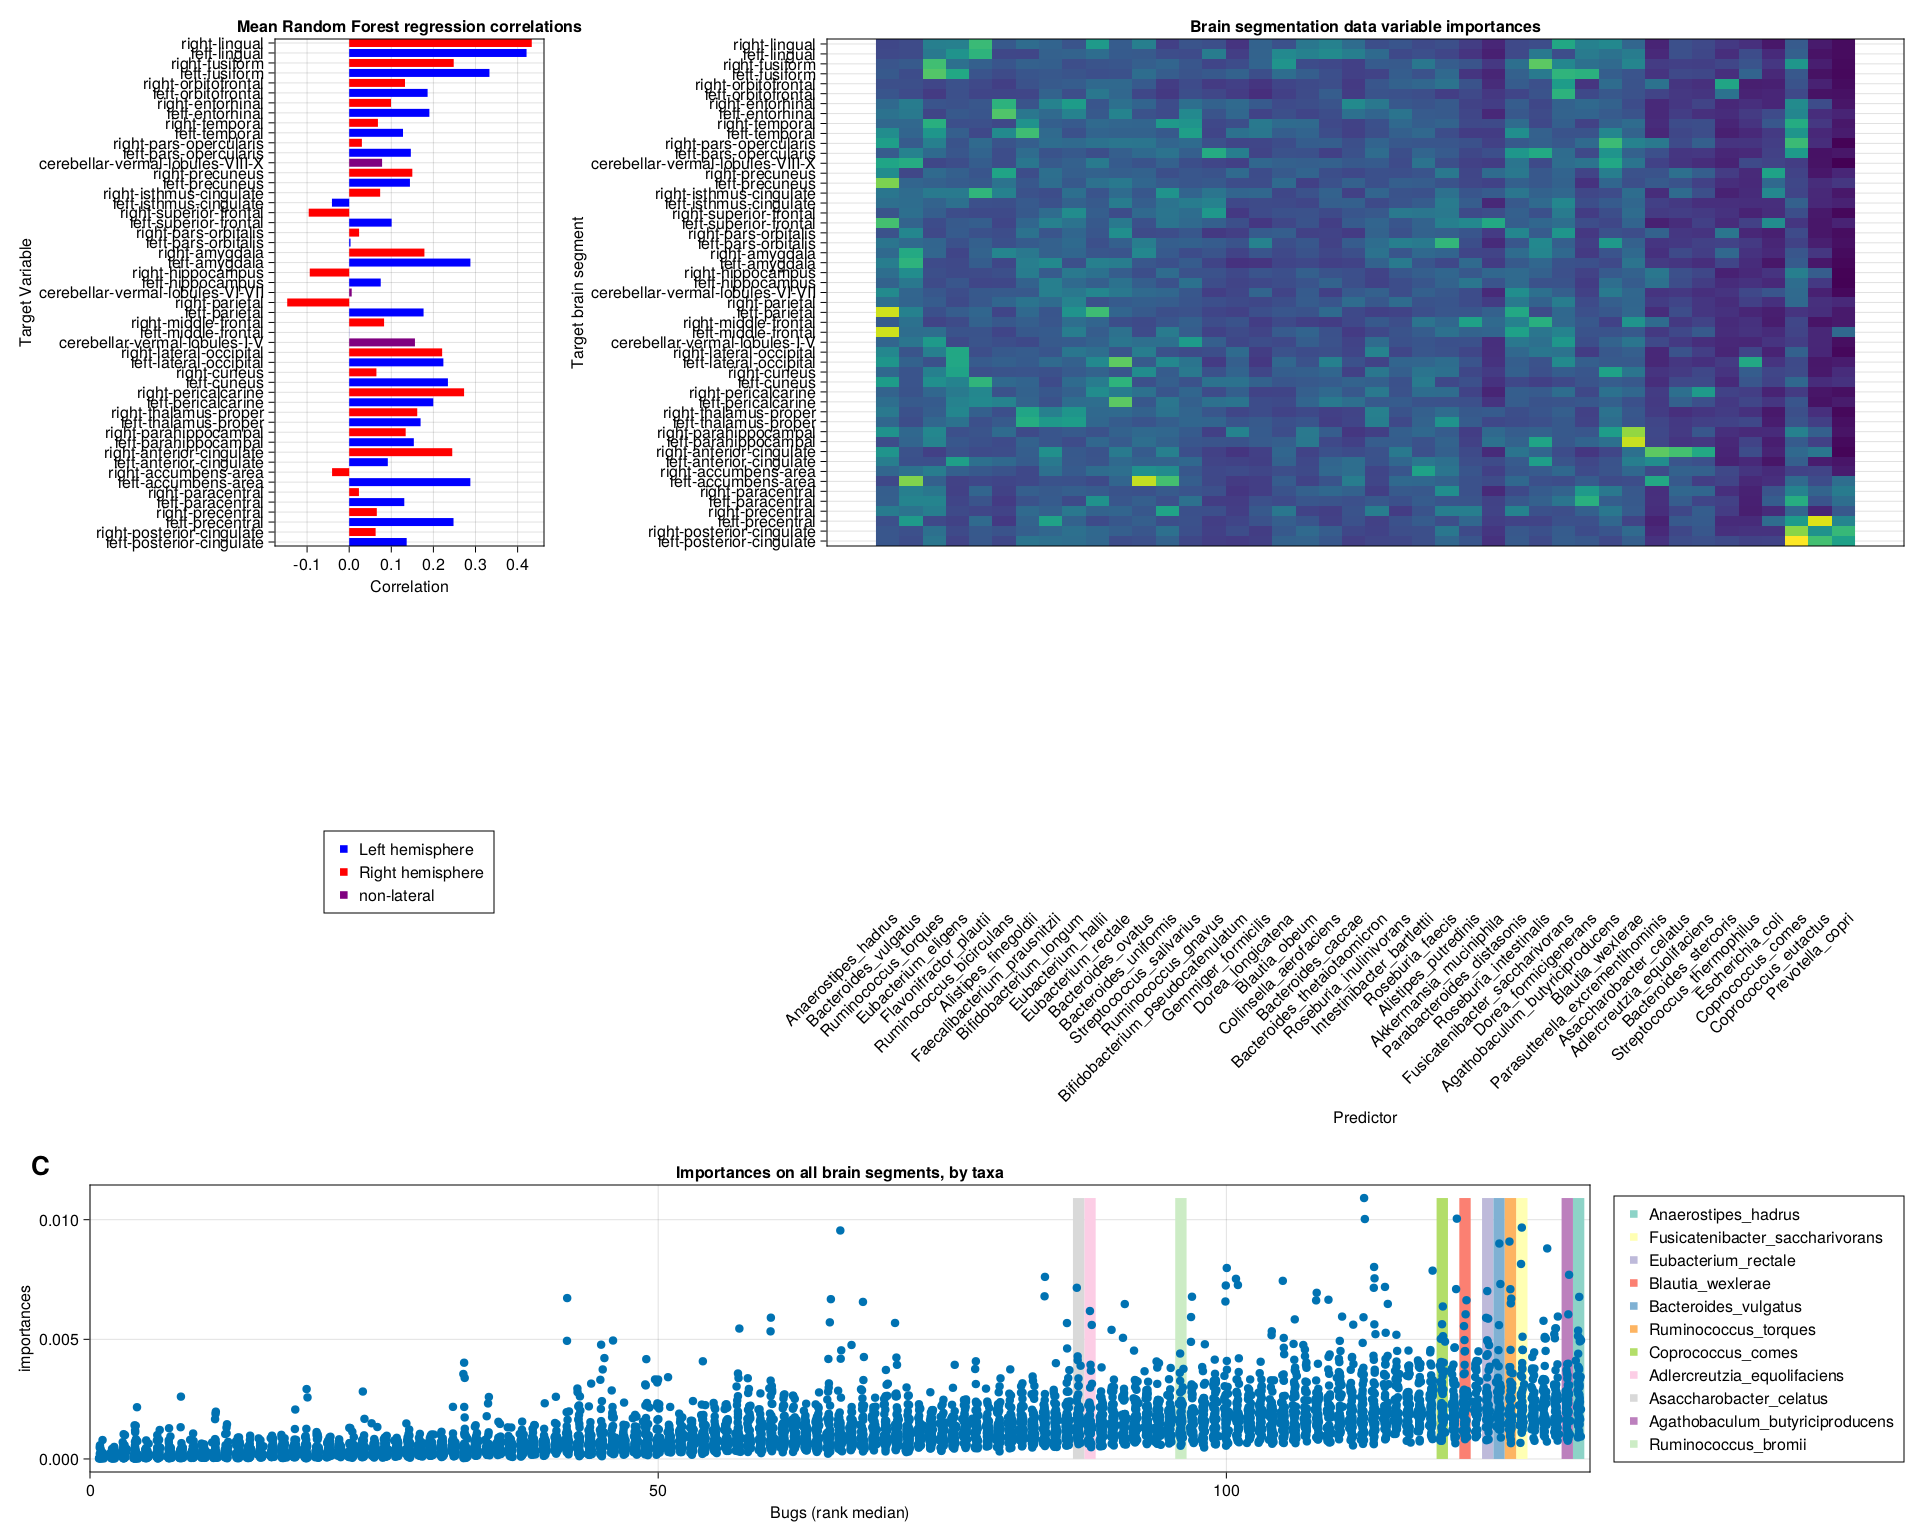
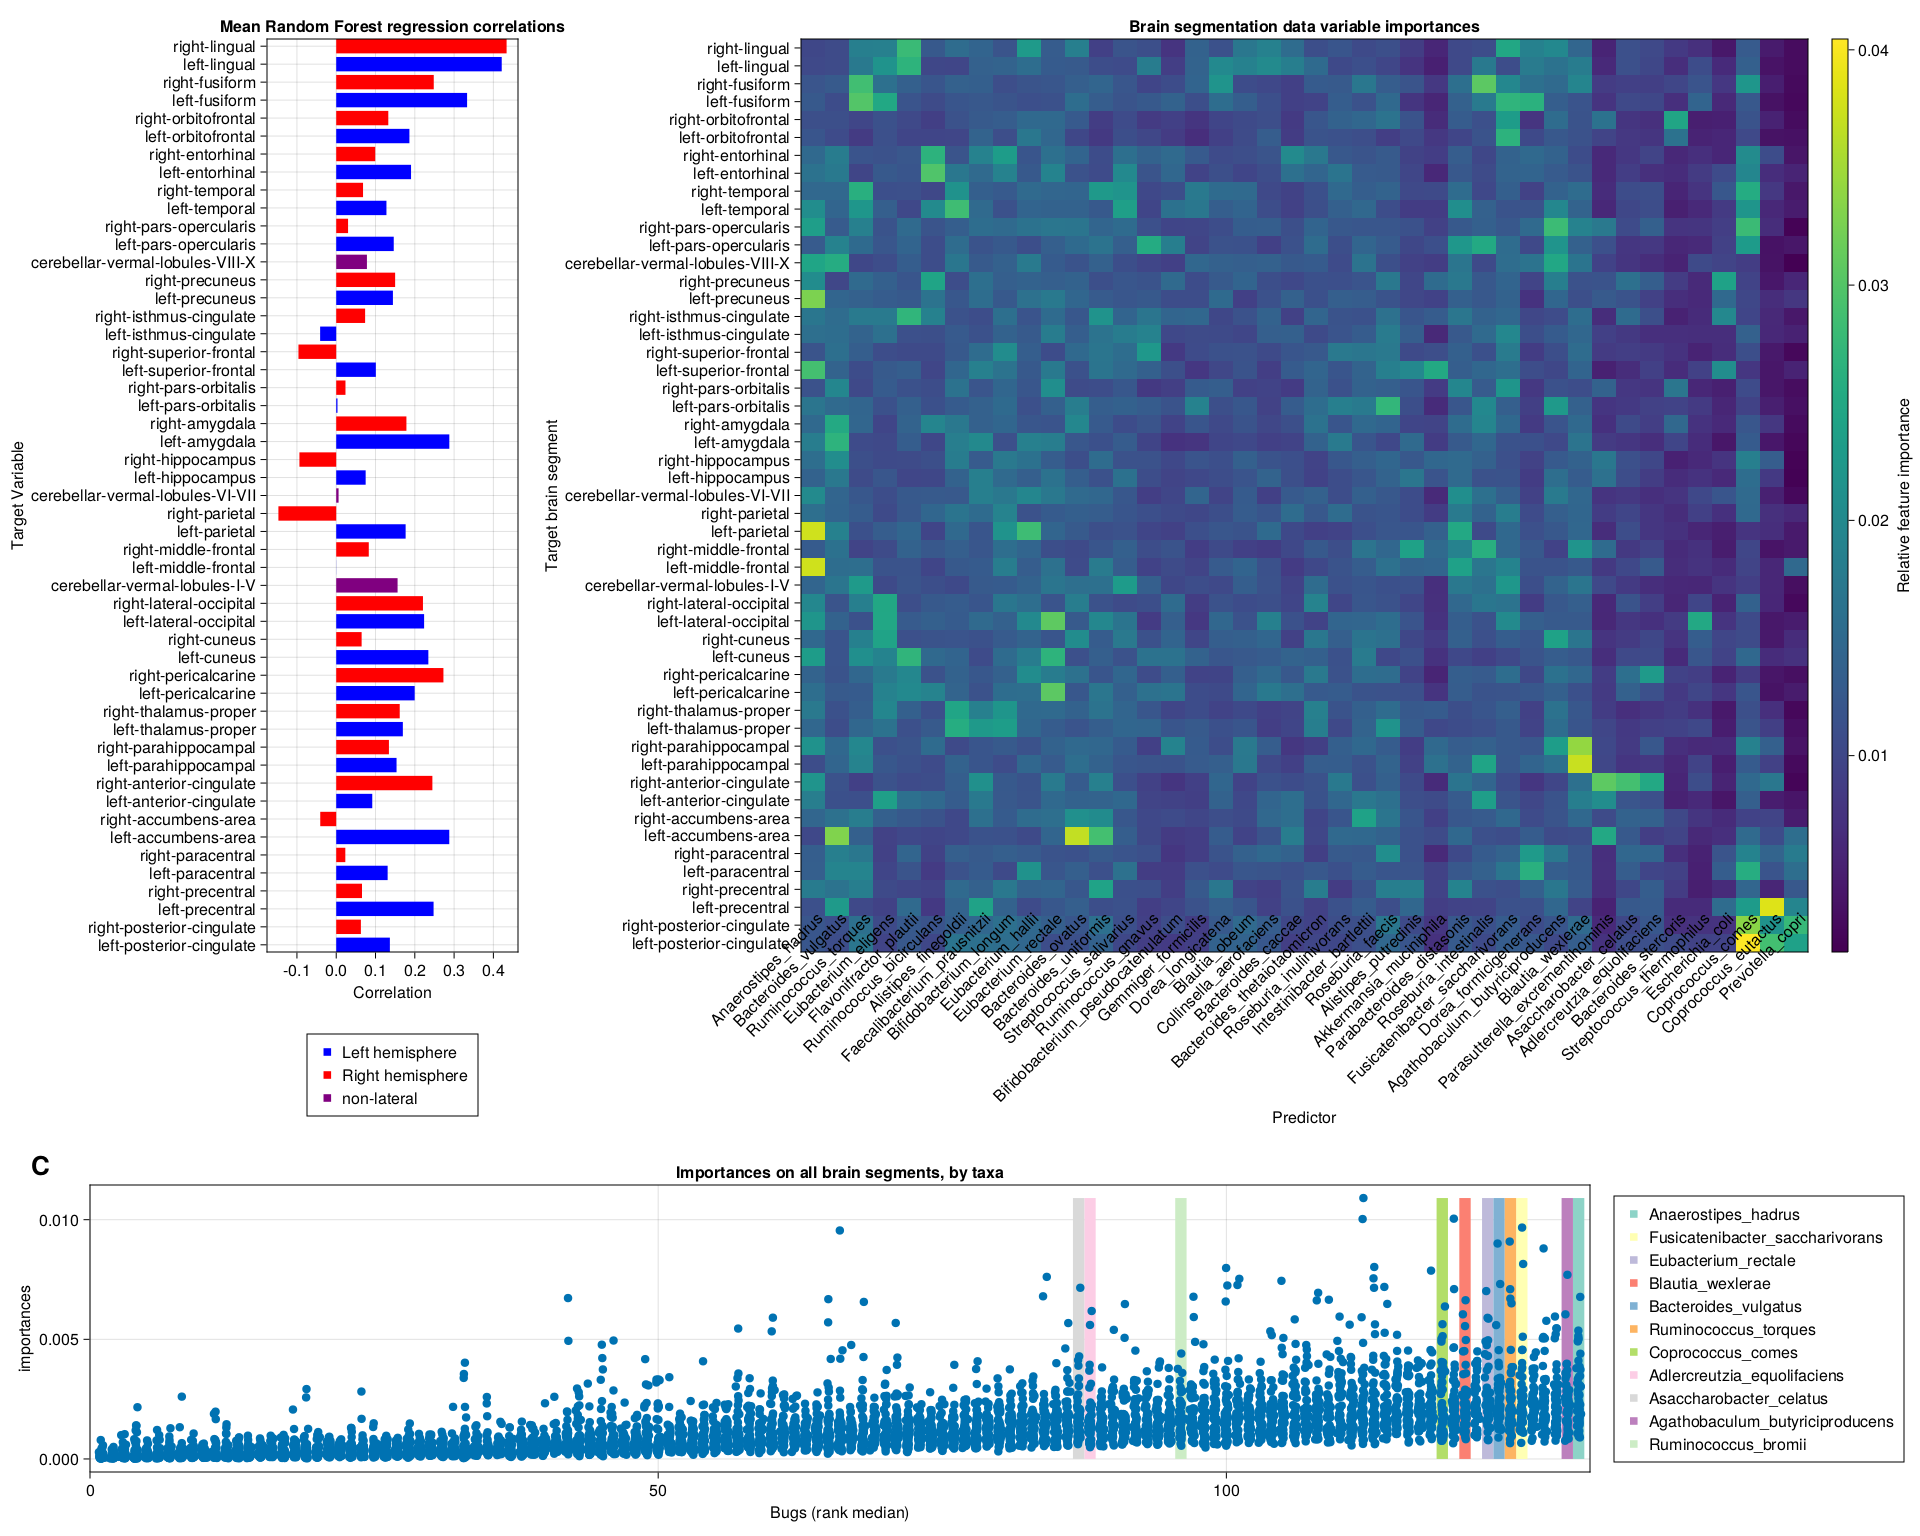
add colorbar to heatmap

diff --git a/manuscript/Figure4.md b/manuscript/Figure4.md
@@ -277,6 +277,14 @@ relative_brain_importances = relative_brain_importances[hclust_taxa_order, vcat(
 #relative_brain_importances = relative_brain_importances[sortperm(map(mean, eachrow(relative_brain_importances[:, 2:end])); rev=true), vcat( [ 1 ], (plot_segments_order .+ 1))]
 ```
 
+#### Some other subsets
+
+```julia
+weighted_brain_importances = weighted_brain_importances[:, vcat(["variable"], interesting_segments)]
+mean_brain_importances = weighted_brain_importances
+noage = mean_brain_importances[2:end, :]
+```
+
 ### Plotting
 
 #### Initialize figure
@@ -284,28 +292,25 @@ relative_brain_importances = relative_brain_importances[hclust_taxa_order, vcat(
 ```julia
 figure = Figure(resolution = (1920, 1536))
 
-AB_Subfig = GridLayout(figure[1,1], alignmode=Outside()) 
-A_subfig = GridLayout(AB_Subfig[1,1])
-B_subfig = GridLayout(AB_Subfig[1,2])
-C_subfig = GridLayout(figure[2,1], alignmode=Outside())
 
-colsize!(AB_Subfig, 1, Relative(0.2))
-colsize!(AB_Subfig, 2, Relative(0.8))
-rowsize!(figure.layout, 1, Relative(0.75))
-rowsize!(figure.layout, 2, Relative(0.25))
+AB_Subfig = GridLayout(figure[1,1], alignmode=Outside()) 
+# A_subfig = GridLayout(AB_Subfig[1,1])
+# B_subfig = GridLayout(AB_Subfig[1,2])
+C_subfig = GridLayout(figure[2,1], alignmode=Outside())
 ```
 
 
 #### Calling the plot functions with the ordered data
 ```julia
 axA = Axis(
-    A_subfig[1, 1];
+    AB_Subfig[1, 1];
     xlabel = "Correlation",
     yticks = (reverse(collect(1:length(interesting_segments))), mean_brain_merits.variable),
     ylabel = "Target Variable",
     xticks = [-0.2, -0.1, 0.0, 0.1, 0.2, 0.3, 0.4, 0.5, 0.6, 0.7],
     title = "Mean Random Forest regression correlations",
-    yticklabelsize=16
+    yticklabelsize=16,
+    alignmode=Inside(),
     #yticklabelrotation= -pi/2
 )
 
@@ -321,26 +326,44 @@ barplot!(
     direction=:x
 )
 
+Legend(AB_Subfig[2,1],
+    [MarkerElement(; marker=:rect, color=c) for c in ("blue", "red", "purple")],
+    ["Left hemisphere", "Right hemisphere", "non-lateral"];
+)
+
 ######
 # Importance Heatmaps
 ######
 nbugs_toplot = length(interesting_taxa) # the top 1/3 bugs (out of 129) From intersecting the top mean importances and top max importances
 
 axB = Axis(
-    B_subfig[1, 1];
-    xlabel = "Predictor",
-    xticks = (collect(1:nbugs_toplot), relative_brain_importances.variable[1:nbugs_toplot]),
-    xticklabelsize=16,
-    xticklabelrotation= pi/4,
+    AB_Subfig[1, 2];
     ylabel = "Target brain segment",
     yticks = (collect(1:length(interesting_segments)), names(relative_brain_importances)[2:end]),
     yticklabelsize=16,
     yreversed=true,
     title = "Brain segmentation data variable importances"
 )
+hidexdecorations!(axB)
+axBticks = Axis(
+    AB_Subfig[2,2];
+    xlabel = "Predictor",
+    xticks = (collect(1:nbugs_toplot), relative_brain_importances.variable[1:nbugs_toplot]),
+    xticklabelsize=16,
+    xticklabelrotation= pi/4,
+    alignmode=Outside()
+)
 
-CairoMakie.heatmap!(axB, Matrix(relative_brain_importances[1:nbugs_toplot, 2:end]), yflip=true)
+tightlimits!.([axB, axBticks])
 
+linkxaxes!(axB, axBticks)
+hidexdecorations!(axBticks; ticklabels=false, label=false)
+hideydecorations!(axBticks)
+hidespines!(axBticks)
+
+
+hm = CairoMakie.heatmap!(axB, Matrix(relative_brain_importances[1:nbugs_toplot, 2:end]), yflip=true)
+Colorbar(AB_Subfig[1,3], hm; label= "Relative feature importance")
 ######
 # Scatterplot
 ######
@@ -351,10 +374,6 @@ mean_brain_importances = reduce(
         for (i, j) in brain_models
     ]
 )
-
-weighted_brain_importances = weighted_brain_importances[:, vcat(["variable"], interesting_segments)]
-mean_brain_importances = weighted_brain_importances
-noage = mean_brain_importances[2:end, :]
 
 idx = sortperm([median(row[2:end]) for row in eachrow(noage)])
 ys = reduce(vcat, [values(noage[i, 2:end])...] for i in idx)
@@ -393,6 +412,18 @@ Legend(C_subfig[1,2], [MarkerElement(; marker=:rect, color = ColorSchemes.Set3_1
 Label(A_subfig[1, 1, TopLeft()], "A", fontsize = 26,font = :bold, padding = (0, 240, 5, 0), halign = :right)
 Label(B_subfig[1, 1, TopLeft()], "B", fontsize = 26,font = :bold, padding = (0, 200, 5, 0), halign = :right)
 Label(C_subfig[1, 1, TopLeft()], "C", fontsize = 26,font = :bold, padding = (0, 40, 5, 0), halign = :right)
+```
+
+Then resize
+
+```julia
+
+colsize!(AB_Subfig, 1, Relative(0.2))
+colsize!(AB_Subfig, 2, Relative(0.8))
+rowsize!(AB_Subfig, 2, Relative(0.1))
+rowsize!(figure.layout, 1, Relative(0.75))
+rowsize!(figure.layout, 2, Relative(0.25))
+
 
 save("manuscript/assets/Figure4.png", figure)
 figure
